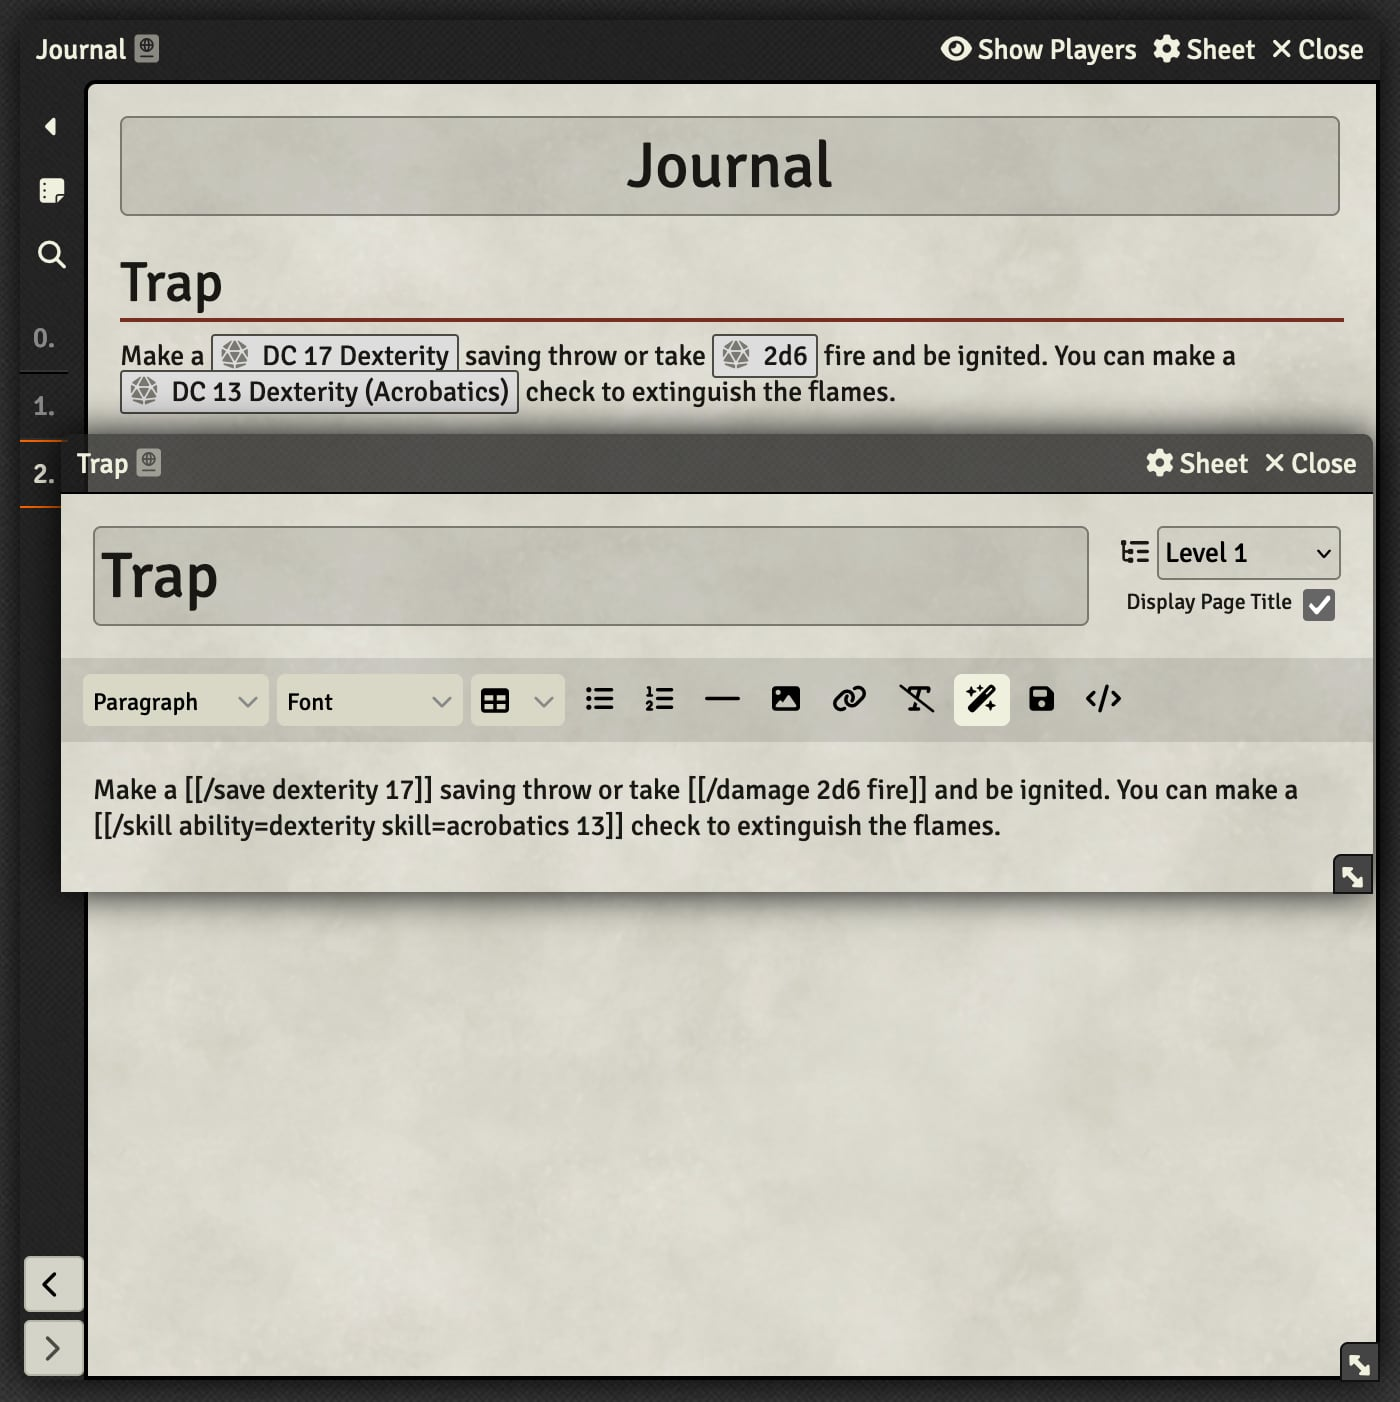
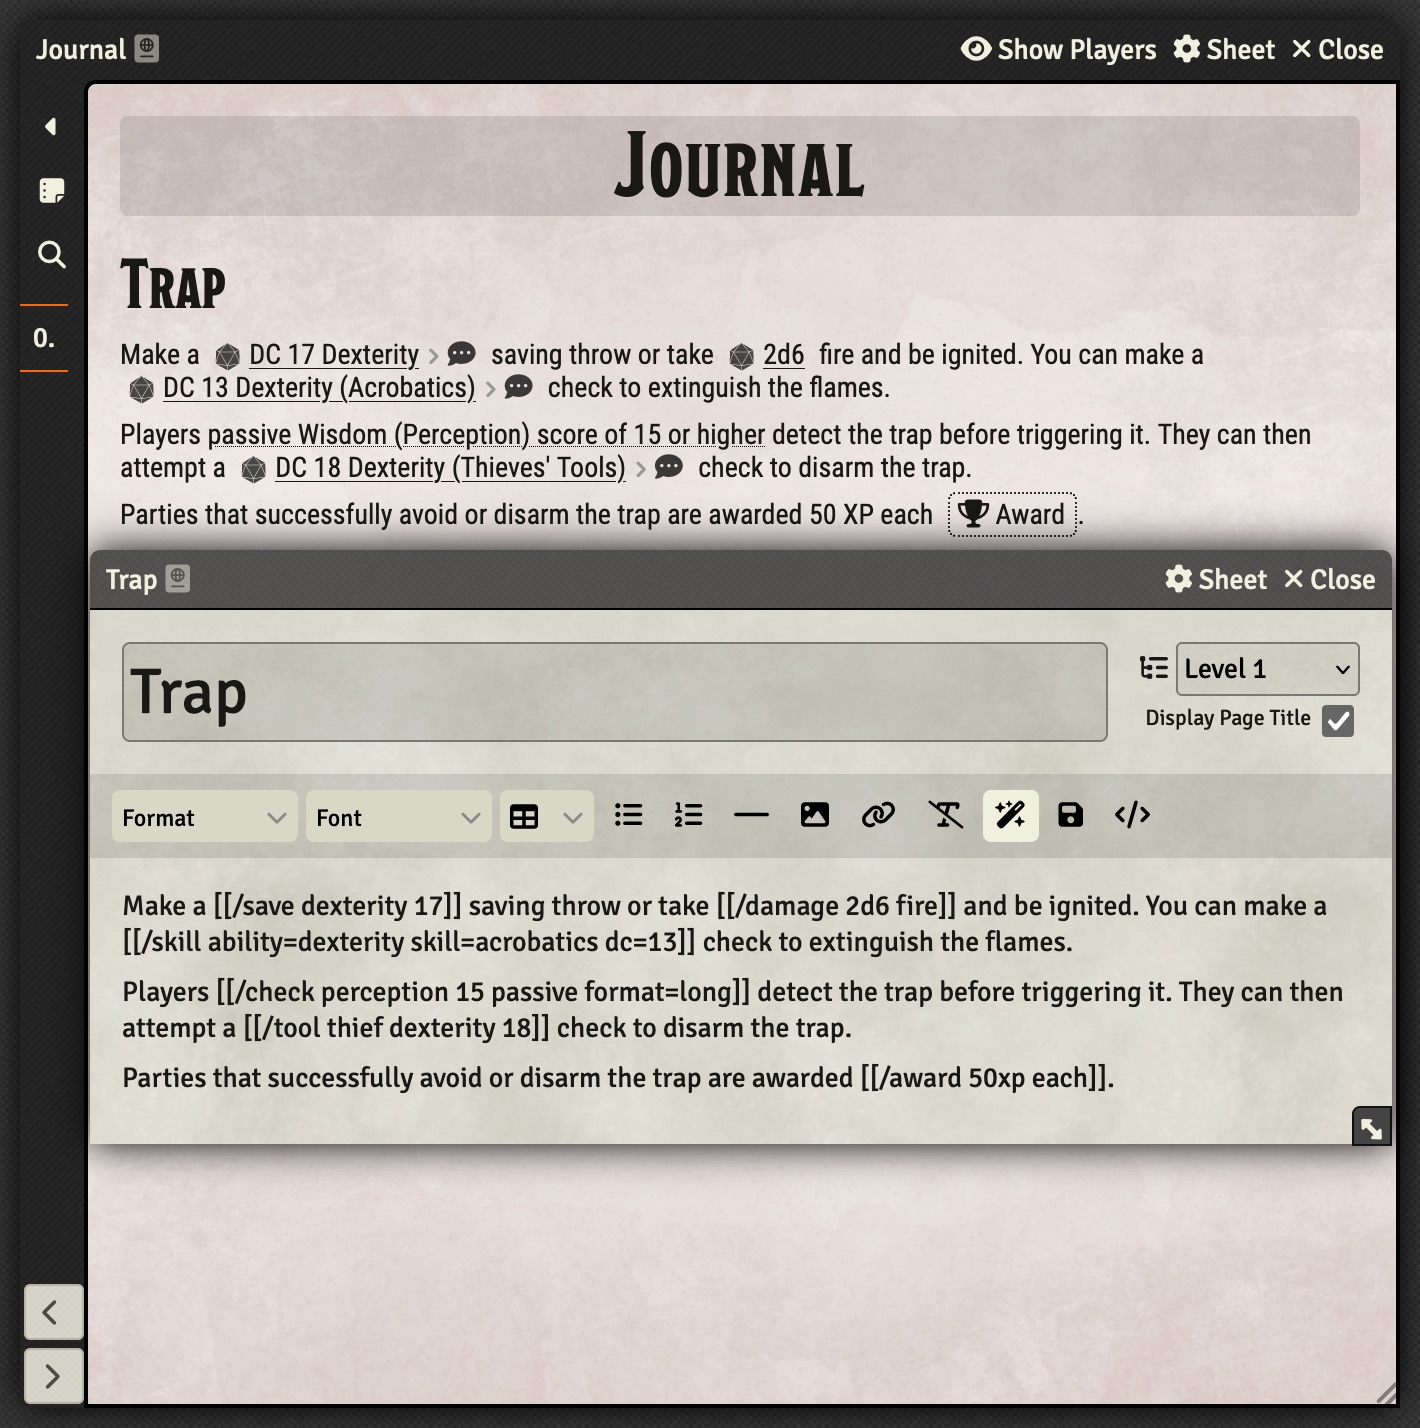
Document new enrichers & award system, update screenshots

diff --git a/wiki/Awards.md b/wiki/Awards.md
@@ -1,0 +1,53 @@
+![Up to date as of 3.0.0](https://img.shields.io/static/v1?label=dnd5e&message=3.0.0&color=informational)
+
+The award system can be used by DMs to grant their players currency and XP rewards. It can be accessed in three ways, the `/award` command in chat, `[[/award]]` enrichers in journal entries, and the `"Award"` button in group actors.
+
+
+## Award Command
+
+![Award Chat Command & Chat Messages](https://raw.githubusercontent.com/foundryvtt/dnd5e/publish-wiki/wiki/images/award-command-and-messages.jpg)
+
+Awarding players from chat is as easy as typing `/award` followed by currency or XP values to award. Each award entry is formatted as a number followed immediately by a code, for example `5gp` for five gold or `10xp` for ten experience points. The numbers can also be formulas, so you can award `2d6sp` and the dice values will be automatically evaluated when the award occurs.
+
+> <details>
+> <summary>Award Codes</summary>
+>
+> | Award Type        | Code    |
+> |-------------------|---------|
+> | Platinum          | `pp`    |
+> | Gold              | `gp`    |
+> | Silver            | `sp`    |
+> | Electrum          | `ep`    |
+> | Copper            | `cp`    |
+> | Experience Points | `xp`    |
+>
+> Custom currencies will use whatever key was used when defining them within `CONFIG.DND5E.currencies`.</details>
+
+The `/award` command supports two additional options. By default when used it will open up the award dialog for the DM to complete the process, but if a primary party is set up then the `party` option can be used to send the award directly to that party group. So typing `/award party 500gp` will send 500 gold directly to the party actor.
+
+By default the award command splits the amounts set among all destinations, but if the award is instead a per-player value you can use the `each` option. Typing `/award 100xp each` will grant each selected player in the award dialog 100 experience points, rather than dividing that amount between them.
+
+
+## Award Enricher
+
+![Award Enricher & Window](https://raw.githubusercontent.com/foundryvtt/dnd5e/publish-wiki/wiki/images/award-enricher-and-window.jpg)
+
+Using the award enricher within a journal entry is as simple as wrapping any award chat command you would use in double square brackets (`[[` and `]]`). This will format the award to work inline with a sentence or separated into its own block if desired.
+
+Enter `[[/award 50gp 50xp]]` in a journal entry will be formatted as `"50 (G), 50 XP [Award]"`, using the new currency icons for each currency type and providing the Award button which will bring up the application for DMs. Modifying the enricher with the `each` command (e.g. `[[/award 50gp each]]`) will display in the description like `"50 (G) each [Award]"`.
+
+If the origin button text isn't desired, it can be customized using the enricher's label such as `[[/award 50000gp]]{Give 'em the Gold}` to produce `"50,000 (G) [Give 'em the Gold]"`.
+
+
+## Awards in Groups
+
+![Award within a Group](https://raw.githubusercontent.com/foundryvtt/dnd5e/publish-wiki/wiki/images/award-group.jpg)
+
+Rather than awarding gold and experience points directly to players in the middle of combat, the DM may wish to grant them first to the group and dole them out at the end of a session. Any XP and gold sent to the primary party using the award command or enrichers will be tracked and can be granted to players using the `"Award"` button just below the experience points tracker.
+
+> [!Note]
+> If experience points tracking is disabled in system settings, then the award button will not appear. Instead DMs can use the currency manager in the inventory tab to distribute just currency to players.
+
+Any awards sent from a group are capped by the amount available in that group, so if a group has 400 XP tracked and the DM grants each player in a five person party 100 XP, the amount each character will receive will only be 80 XP and the tracked XP in the group will be reduced two zero.
+
+For encounter groups, the XP is calculated based on the combined XP of all NPCs within the encounter. This allows the use of the award button to easily grant players the XP for the entire encounter.

diff --git a/wiki/Enrichers.md b/wiki/Enrichers.md
@@ -1,8 +1,13 @@
-![Up to date as of 2.4.0](https://img.shields.io/static/v1?label=dnd5e&message=2.4.0&color=informational)
+![Up to date as of 3.0.0](https://img.shields.io/static/v1?label=dnd5e&message=3.0.0&color=informational)
 
 The dnd5e system adds a number of useful enrichers that can be used within journals or in item or actor descriptions. These enrichers will generate text based on the standard formatting used throughout 5e releases and provide rolls and related behavior that properly hooks into the system.
 
 ![Enricher Preview](https://raw.githubusercontent.com/foundryvtt/dnd5e/publish-wiki/wiki/images/enrichers-preview.jpg)
+
+## Award Enricher
+
+See the enrichers section of the [awards guide](Awards).
+
 
 ## Check & Save Enrichers
 Check and save enrichers allow for rolling ability checks, skill checks, tool checks, and saving throws using all of the proper modifiers of the character performing the roll.
@@ -16,6 +21,10 @@ Including a DC in the roll will display it in the description and pass it throug
 The DC can either be a fixed value or a resolved formula based on the stats of the owner of the item included in it. So adding `[[/save dex dc=@abilities.con.dc]]` will set to DC to whatever the pre-calculated constitution DC is on the creature that owns the item with this enricher.
 
 Check, skill, and tool enrichers work in much the same way. Writing `[[/check {ability} {dc}]]` will create a basic ability check, while `[[/skill acrobatics]]` will present an acrobatics check.
+
+![Enricher Passive](https://raw.githubusercontent.com/foundryvtt/dnd5e/publish-wiki/wiki/images/enricher-passive.jpg)
+
+Using the `passive` option on a check enricher displays a passive description and allows the enhanced passive tooltip for characters that are part of the primary party. A standard passive perception check can be achieved by using `[[/skill perception 15 passive format=long]]` to produce the text `"passive Wisdom (Perception) score of 15 or high"`, or the format option can be left out for the shorter `"DC 15 passive Wisdom (Perception)"`.
 
 The `[[/check]]`, `[[/skill]]`, `[[/tool]]` starting terms are all interchangeable, and the final roll will be presented based on the inputs given. So `[[/check dexterity athletics]]` will perform a dexterity check using a character's athletics proficiency if present.
 
@@ -66,7 +75,6 @@ For tool checks, the ability is required. A check like `[[/tool thief]]` will no
 > | Woodcarver's Tools     | `woodcarver`   |
 >
 > Source: `CONFIG.DND5E.toolIds` </details>
-
 
 
 ## Damage Enrichers

diff --git a/wiki/Home.md b/wiki/Home.md
@@ -14,6 +14,7 @@
     - [Advancement Type: Trait](Advancement-Type-Trait.md)
 - Tutorials
   - [Custom Races](Custom-Race-Tutorial.md)
+- [Awards](Awards.md)
 - [Dynamic Module Art](Dynamic-Module-Art.md)
 - [Enrichers](Enrichers.md)
 - [Frequently Asked Questions](FAQ.md)
